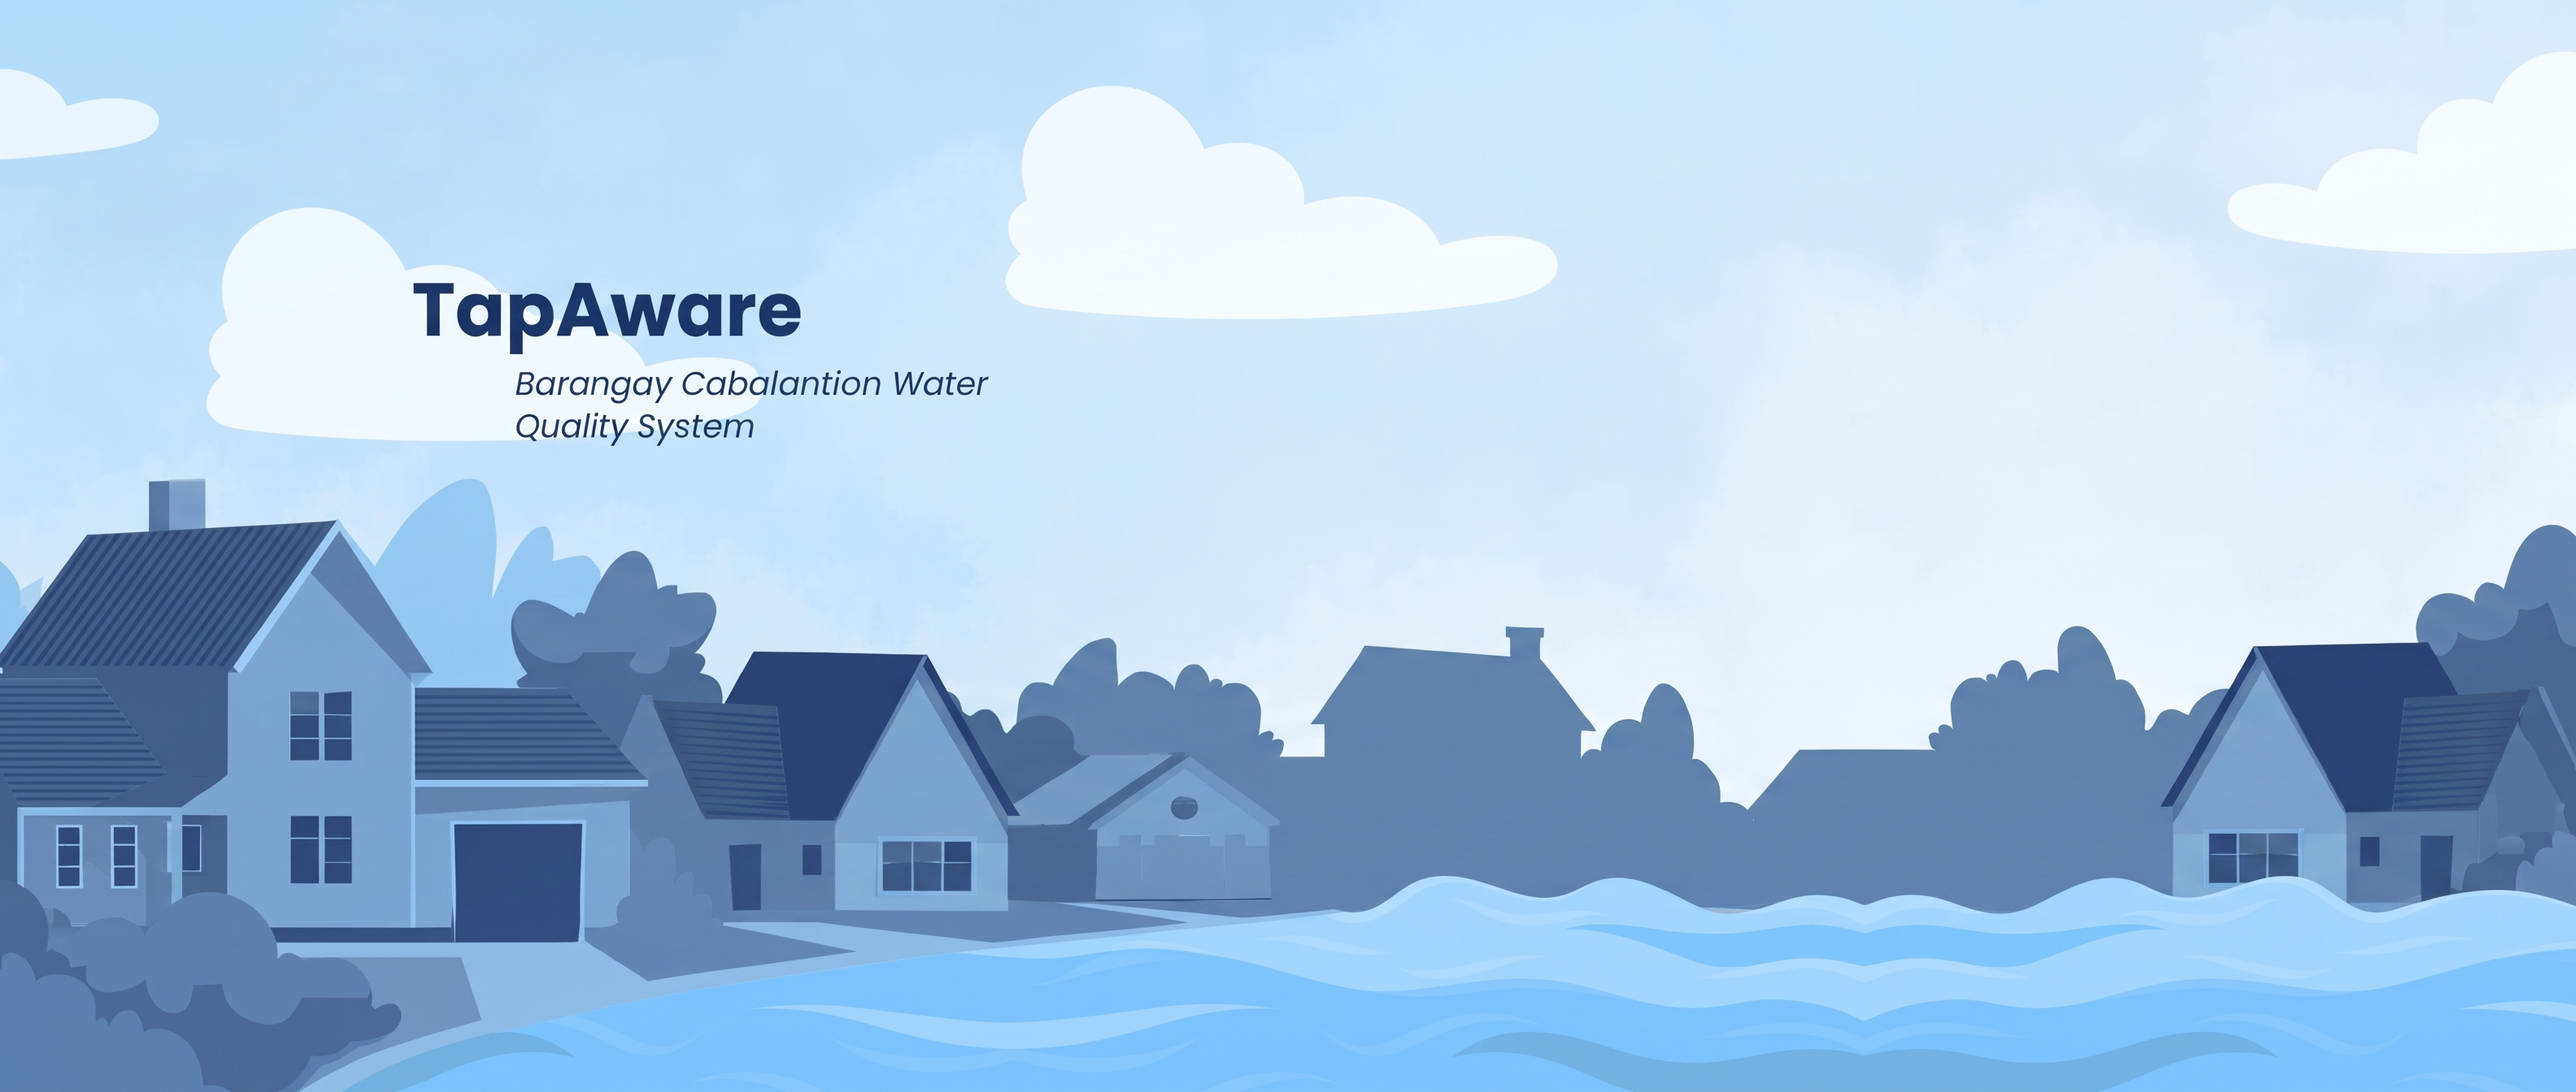
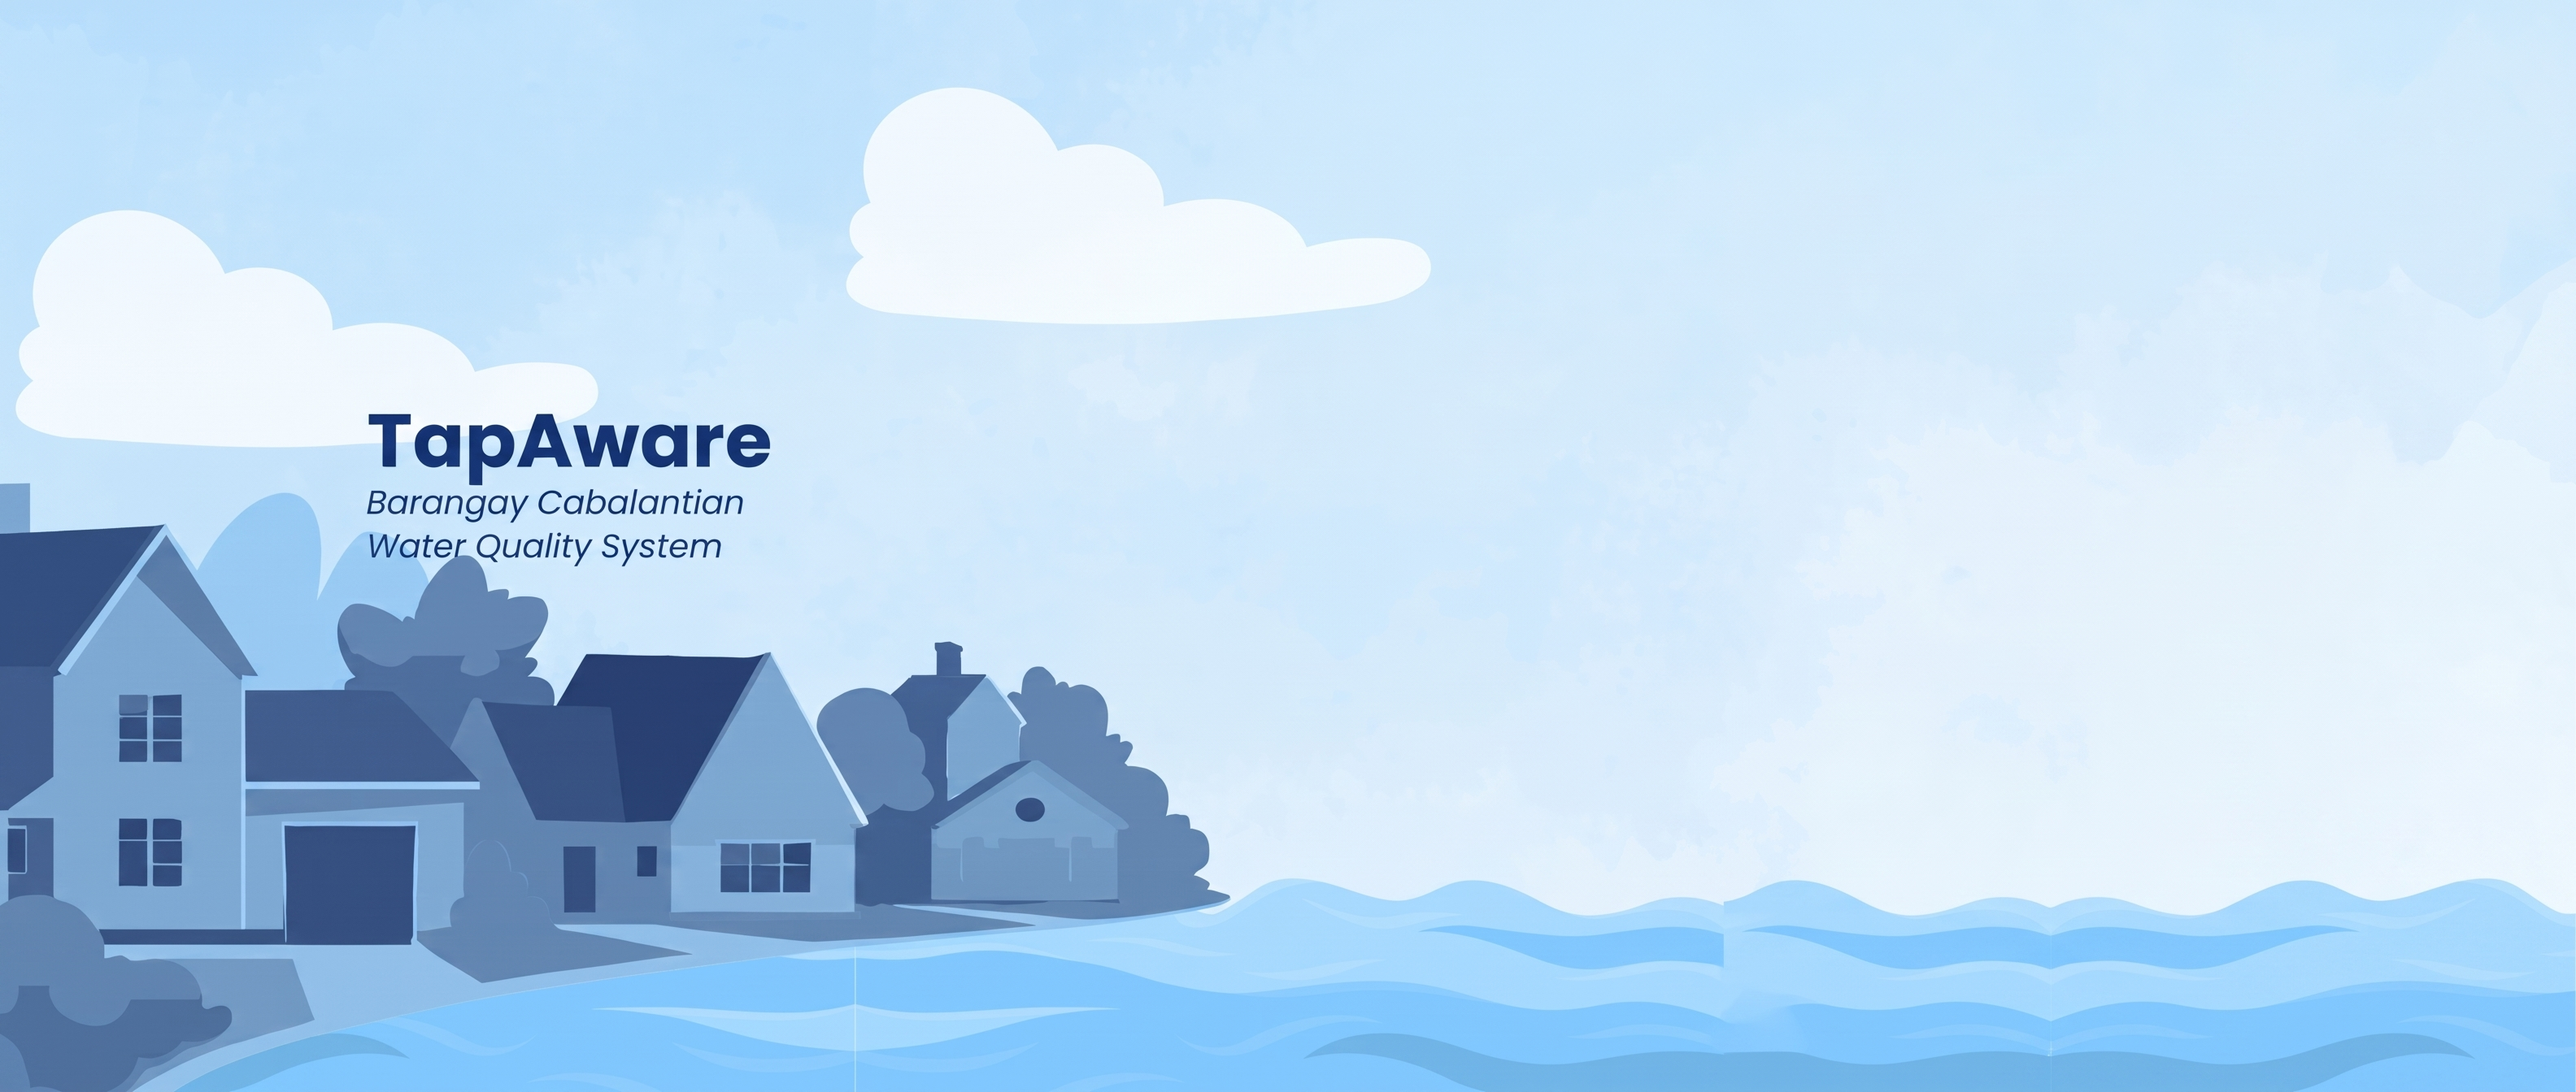
small design fixes

diff --git a/src/pages/HouseholdDetail.jsx b/src/pages/HouseholdDetail.jsx
@@ -102,7 +102,7 @@ const HouseholdDetail = () => {
             <Layout>
                 <div className="text-center py-12">
                     <p className="text-gray-500">Household not found.</p>
-                    <Button variant="outline" className="mt-4" onClick={() => navigate('/households')}>
+                    <Button className="mt-4" onClick={() => navigate('/households')}>
                         Back
                     </Button>
                 </div>
@@ -126,7 +126,7 @@ const HouseholdDetail = () => {
             <div>
                 <div className="flex items-center justify-between mb-4">
                     <Button
-                        variant="outline"
+
                         size="sm"
                         className="flex items-center gap-1 border-gray-300 bg-white text-gray-700 hover:bg-gray-100"
                         onClick={handleBack}

diff --git a/src/pages/FlagDetail.jsx b/src/pages/FlagDetail.jsx
@@ -76,7 +76,7 @@ const FlagDetail = () => {
             <Layout>
                 <div className="text-center py-12">
                     <p className="text-gray-500">Flag not found.</p>
-                    <Button variant="outline" className="mt-4" onClick={() => navigate(-1)}>
+                    <Button className="mt-4" onClick={() => navigate(-1)}>
                         Back
                     </Button>
                 </div>
@@ -92,7 +92,7 @@ const FlagDetail = () => {
         <Layout>
             <div className="w-full mx-auto ">
                 <Button
-                    variant="outline"
+
                     size="sm"
                     className="mb-4 flex items-center gap-1 border-gray-300 bg-white text-gray-700 hover:bg-gray-100"
                     onClick={() => navigate('/admin?tab=flagged')}

diff --git a/src/pages/RequestAccount.jsx b/src/pages/RequestAccount.jsx
@@ -122,10 +122,10 @@ const RequestAccount = () => {
                                 className="w-10 h-10 object-contain hover:cursor-pointer "
                             />
                             <h1 className="text-2xl font-bold text-blue-900">
-                                Request an account
+                                Request an Account
                             </h1>
                         </div>
-                        <p className="text-gray-500 text-sm mt-1 text-center">
+                        <p className="text-gray-500 text-xs mt-1 text-center">
                             Fill in your details. The barangay will review your request and email you if it is approved.
                         </p>
                     </div>

diff --git a/src/pages/ForgotPassword.jsx b/src/pages/ForgotPassword.jsx
@@ -66,7 +66,7 @@ const ForgotPass = () => {
             {/* Mascot glued to the background scene (right of the centered card). Desktop only. */}
             <SceneMascot src="/assets/login_figure.png" x={0.73} size={0.21} className="hidden lg:block" />
 
-            <Card className="relative z-10 w-full max-w-sm bg-white shadow-lg">
+            <Card className="relative z-10 w-full h-85 max-w-lg bg-white shadow-lg">
                 <div className="flex flex-col items-center mb-6">
                     <div className="flex items-center justify-center gap-2">
                         <img

diff --git a/src/pages/VerifyEmail.jsx b/src/pages/VerifyEmail.jsx
@@ -41,7 +41,7 @@ const VerifyEmail = () => {
             {/* Mascot glued to the background scene (right of the centered card). Desktop only. */}
             <SceneMascot src="/assets/login_figure.png" x={0.73} size={0.21} className="hidden lg:block" />
 
-            <Card className="relative z-10 w-full max-w-sm bg-white shadow-lg">
+            <Card className="relative z-10 w-full max-w-lg bg-white shadow-lg">
                 <div className="flex flex-col items-center mb-6">
                     <div className="flex items-center justify-center gap-2">
                         <img

diff --git a/src/pages/Login.jsx b/src/pages/Login.jsx
@@ -67,7 +67,7 @@ const Login = () => {
                 x = horizontal position, size = width (both as a fraction of the background image) */}
             <SceneMascot src="/assets/login_figure.png" x={0.45} size={0.21} className="hidden md:block" />
 
-            <Card className="relative z-10 w-full max-w-sm bg-white shadow-lg">
+            <Card className="relative z-10 w-full max-w-xl bg-white shadow-lg">
                 <div className="flex flex-col items-center mb-6">
                     <div className="flex items-center justify-center gap-2">
                         <img

diff --git a/src/pages/ResetPassword.jsx b/src/pages/ResetPassword.jsx
@@ -67,7 +67,7 @@ const ResetPassword = () => {
                 {/* Mascot glued to the background scene (right of the centered card). Desktop only. */}
                 <SceneMascot src="/assets/login_figure.png" x={0.73} size={0.21} className="hidden lg:block" />
 
-                <Card className="relative z-10 w-full max-w-sm shadow-lg">
+                <Card className="relative z-10 w-full  max-w-lg shadow-lg">
                     <CardContent className="pt-6">
                         <Alert variant="destructive">
                             <XCircle className="h-4 w-4" />

diff --git a/src/pages/AuditDetail.jsx b/src/pages/AuditDetail.jsx
@@ -54,7 +54,7 @@ const AuditDetail = () => {
         <Layout>
             <div className="w-full mx-auto">
                 <Button
-                    variant="outline"
+
                     size="sm"
                     className="mb-4 flex items-center gap-1 border-gray-300 bg-white text-gray-700 hover:bg-gray-100"
                     onClick={() => navigate(-1)}

diff --git a/src/pages/ConcernDetail.jsx b/src/pages/ConcernDetail.jsx
@@ -108,7 +108,7 @@ const ConcernDetail = () => {
                         onClick={() => navigate(-1)}
                     >
                         <ArrowLeft size={14} />
-                        Back to Admin Panel
+                        Back
                     </Button>
                     {user?.role === 'admin' && (
                         <ConfirmDialog

diff --git a/src/pages/AccountRequestDetail.jsx b/src/pages/AccountRequestDetail.jsx
@@ -182,7 +182,7 @@ const AccountRequestDetail = () => {
 
     const backButton = (
         <Button
-            variant="outline"
+
             size="sm"
             className="flex items-center gap-1 border-gray-300 bg-white text-gray-700 shadow-sm hover:bg-gray-100 hover:cursor-pointer"
             onClick={() => navigate(-1)}
